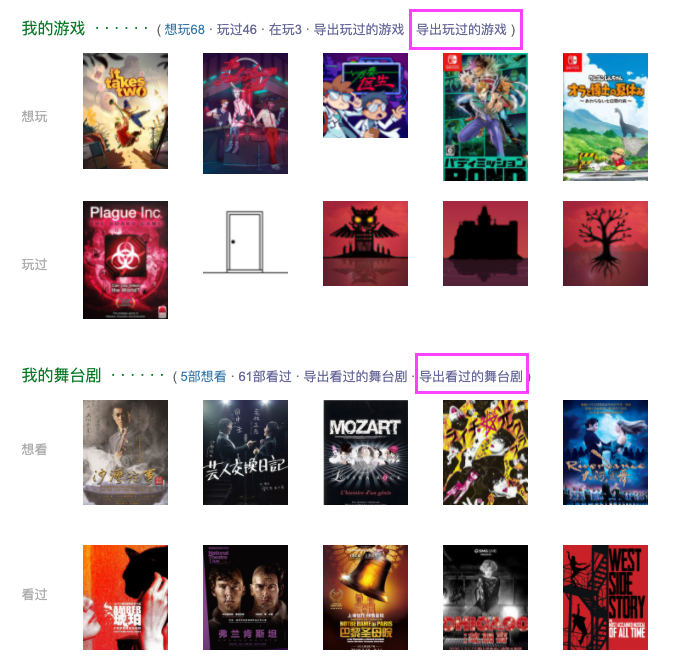
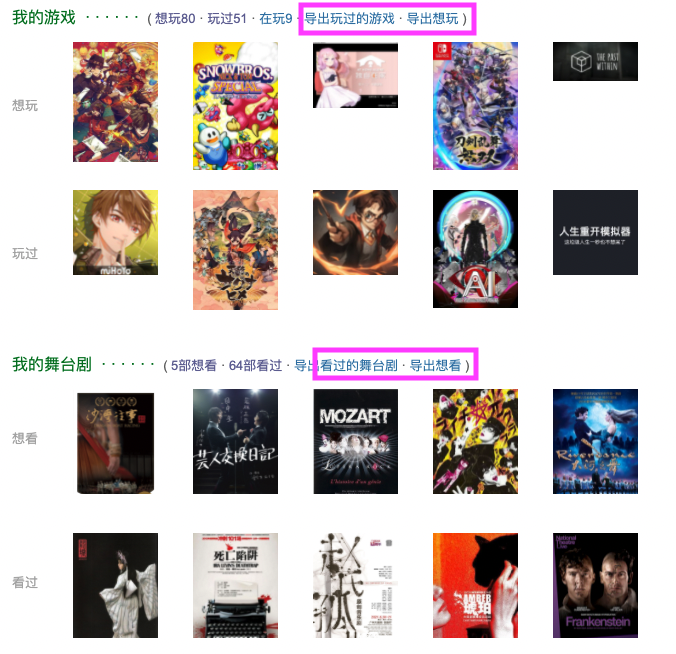
:memo: change: rewrite douban backup manual.

diff --git a/_posts/2021-06-05-douban-backup-sync-notion.md b/_posts/2021-06-05-douban-backup-sync-notion.md
@@ -5,18 +5,22 @@ date: 2021-06-05
 disqus: y
 ---
 
-我个人的豆瓣标记条目导出到 Notion 并同步的一套操作和工具，并不适用于所有人。并且可能还有问题没有发现。
+我个人的豆瓣标记条目导出到 Notion 并同步的一套操作和工具，并不适用于所有人。
+如果想要使用并在使用中有问题欢迎直接联系我。
 
 ## 1. 使用油猴脚本一键导出`看过/读过/听过/玩过`的电影、书、音乐、游戏、舞台剧条目
 
-脚本 -> [豆瓣读书+电影+音乐+游戏+舞台剧导出工具](https://greasyfork.org/en/scripts/420999-%E8%B1%86%E7%93%A3%E8%AF%BB%E4%B9%A6-%E7%94%B5%E5%BD%B1-%E9%9F%B3%E4%B9%90-%E6%B8%B8%E6%88%8F-%E8%88%9E%E5%8F%B0%E5%89%A7%E5%AF%BC%E5%87%BA%E5%B7%A5%E5%85%B7)
+油猴脚本 -> [豆瓣读书+电影+音乐+游戏+舞台剧导出工具](https://greasyfork.org/en/scripts/420999-%E8%B1%86%E7%93%A3%E8%AF%BB%E4%B9%A6-%E7%94%B5%E5%BD%B1-%E9%9F%B3%E4%B9%90-%E6%B8%B8%E6%88%8F-%E8%88%9E%E5%8F%B0%E5%89%A7%E5%AF%BC%E5%87%BA%E5%B7%A5%E5%85%B7)
 
-是我从另外一个友邻的脚本完善修改的，安装后会在自己的豆瓣页面上看到多出五个链接：
+是我从另外一个友邻的脚本完善修改的，安装后会在自己的豆瓣页面上看到多出五个链接，“导出看过的”之类的。
+
+另外应一部分友邻的要求，把“想看”的部分的导出链接也加上了，但是这一部分数据没有后续处理，
+“想看的”列表如何使用，全凭自由发挥了。
 
 ![](/assets/images/douban-backup-monkey-script.png)
 ![](/assets/images/douban-backup-monkey-script-2.png)
 
-分别点击这五个链接就会分别从
+分别点击这五个“导出看过的”链接的话就会分别从
 - `https://movie.douban.com/mine?status=collect`
 - `https://music.douban.com/mine?status=collect`
 - `https://book.douban.com/mine?status=collect`
@@ -25,23 +29,31 @@ disqus: y
 
 这几个地方自动翻页去获取个人标记数据（包括评分、评分时间以及短评）并最终导出 csv 文件。每次都可能需要一点时间给脚本去翻页获取数据，中途不要关掉浏览器，也不要在这个页面上去操作什么。
 
-因为这三个地方不是具体条目页面，所以页面访问 limit request 并不严格，所以这样跑脚本完全不会被当做机器人而遭到封禁 IP 或要求重新登录之类的处理。
+因为这三个地方不是具体条目页面，页面访问 limit request 并不严格，所以这样跑脚本完全不会被当做机器人而遭到封禁 IP 或要求重新登录之类的处理。
+
 但局限也就是这里无法准确获取更多有关条目本身的信息，比如电影条目的 IMDb 链接、制片国家，也无法精准把导演和演员之类的人名区分开。
+
+所以会发现导出的列表和最后实际使用中的 Notion table 的信息有对应不上的或者缺失的。这是正常的，也是无法避免的。
+我个人的 Notion 事例看着数据是完整的，是因为最早尝试过自己写爬虫完整地爬取数据，但是数次遭遇被临时封禁 IP
+并要求重新登录，整个过程很痛苦很麻烦，所以决定放弃爬虫方案了。
+
+如果还是想要更完整的信息，建议使用[豆坟](https://blog.doufen.org/)。我个人也会过一段时间使用这个，因为还可以备份广播、相册等对我来说并不是特别重要的部分。
 
 ## 2. 在 Notion 创建 database 并导入 csv
 
-在 Notion 中新建一个 database，也就是表格。然后给表格设置每一列的 Property 名字和类型，名字需要对应前面导出的 csv 的表头的名字和顺序。
+此处我做了几个方便直接 duplicate 的模版，因为表格每一列的属性等的设置起来还挺多需要注意的地方。
 
-例如我的油猴脚本导出的 csv 是这样的:
+- [movie template](https://bambooo.notion.site/02ab64ae11df4d46b16273a0b9adf6ae?v=7c7788ded74743519612e80f1b2384ff)
+- [book template](https://bambooo.notion.site/2c6d35b0e1414af387f9e2a20d10cb4c?v=33be13cbae1f4bf581d325dfa1fa5604)
+- [music template](https://bambooo.notion.site/43a25b0e62354cc4a38a8aa0c60ac31c?v=45b0b31a85804b42a8993e99b63e3f47)
+- [game template](https://bambooo.notion.site/0fcb63ccfc65455b9349b29685690b71?v=5fc35837865640fe8e008ef80961d87f)
+- [drama templa](https://bambooo.notion.site/29233844d4e34a9eb6fd48fb0a7b1598?v=8e9681e173204853b3df0d8c10f0e549)
 
-| 标题                  | 个人评分 | 打分日期   | 我的短评                                                   | 上映日期   | 制片国家 | 条目链接                                   |
-| --------------------- | -------- | ---------- | ---------------------------------------------------------- | ---------- | -------- | ------------------------------------------ |
-| 音乐 / 音楽           |          | 2021/05/22 |                                                            | 2019/09/26 | 加拿大   | https://movie.douban.com/subject/34429100/ |
-| 王者天下 / キングダム | 2        | 2021/05/19 | 太难看了，真是适合飞机上打发时间，只有麻酱太美太帅了！！！ | 2019/04/19 | 日本     | https://movie.douban.com/subject/27611498/ |
+打开模版后直接点击右上角的 **Duplicate**，即可将模版复制到自己的 workspace 中。
 
-如果不喜欢这个顺序，可以自己用 excel 或 wps 之类的工具打开调整顺序后再重新导出 csv 文件。
+![](/assets/images/douban-backup-duplicate.png)
 
-然后在 Notion 页面都右上角菜单打开后选择 Merge with CSV 并选择这个 csv 文件后稍等片刻即可完成导入。
+然后在新建的 database 页面右上角菜单打开后选择 Merge with CSV，将第一步导出的 csv 文件进行导入，数据量较大的话可能需要一点时间。
 
 ![](/assets/images/douban-backup-notion-merge-csv.png)
 
@@ -49,47 +61,123 @@ disqus: y
 
 ![](/assets/images/douban-backup-notion-db.png)
 
+在 Notion 中新建一个 database，也就是表格。然后给表格设置每一列的 Property 名字和类型，名字需要对应前面导出的 csv 的表头的名字和顺序。
 
-## 3. 使用 GitHub Actions 定时从 RSS 信息将豆瓣标记更新同步到 Notion
+因为我的油猴脚本导出的 csv 是这样的:
 
-虽然尽量把豆瓣标记条目备份导出了，但并没有打算完全不用豆瓣了，毕竟的确没有完美的替代，这里的友邻也都依然是我喜欢和期望看到的。
-所以上面两步其实我 4 个月前就做好了的，但对我来说最大的困扰是如何在上面的操作之后继续同步标记呢？
-每个条目都手动输入的话可太麻烦了，那每次都从豆瓣重新导出 csv 再将新的条目合并进 Notion 操作起来似乎也很麻烦。
+![](/assets/images/douban-backup-csv.png)
 
-> 前两步还是比较傻瓜式操作的，基本上大多数人都可以轻易完成，但这个第三步就比较麻烦了。一定需要的是 GitHub 账号，如果不会折腾，也可以如我上面说的，隔一段时间重新跑一下导出脚本，缺点是得自己手动操作把已导入的部分去掉，然后将包含剩余部分的 csv 文件再次导入到 Notion 中即可。
+表格的栏的顺序在 Merge CSV 之前最好不要编辑移动，导入之后就可以按喜好编辑移动了。
 
-后来我想到的一个方法是通过 RSS，所幸这么多年过去了，google reader 都死掉了，豆瓣的 RSS 依然还保留着。
+
+## 3. 将豆瓣标记更新到 Notion （适合不想折腾的完全的小白）
+
+> 如果愿意折腾的话，可以跳过此项继续看第 4 步。
+
+虽然尽量把豆瓣标记条目备份导出了，但并没有打算完全不用豆瓣了，毕竟的确没有完美的替代，友邻也都依然是我喜欢和期望看到的。
+所以在备份了已有的条目后，依然想使用豆瓣标记，但想同时同步标记到对应 Notion 表格。
+如果每个条目仍需要手动输入的话可太麻烦了，此处我提供两个解决方法。
+
+如果不想折腾不懂的东西的话，最直接的方法是：
+- 过一段时间使用油猴脚本重新导出 csv 表格
+- 用 Excel 类工具编辑表格，删除已经导入的部分
+- 再次使用 Merge with CSV 功能导入 Notion 表格
+
+操作上也不算复杂，如果想要比较傻瓜式的操作的话，使用这样的方法即可。
+
+## 4. 使用 GitHub Actions 定时从 RSS 信息更新 Notion
+
+> 这是我个人使用的更自动化的方法，但是需要折腾一些东西，欢迎试用并反馈，谢谢～
+
+
+所幸这么多年过去了，google reader 都死掉了，豆瓣的 RSS 依然还保留着。
 在个人页面的右下角一直安静地存在着：
 
 ![](/assets/images/douban-rss.png)
 
 以[我的账号的 RSS 信息](https://www.douban.com/feed/people/MoNoMilky/interests)为例，
-这个 feed 里只有书影音的标记信息，并且想看、在看、看过三类状态的信息也都包括。缺点是仅有保留最新的 10 条信息。
+这个 feed 里只有书影音的标记信息，并且想看、在看、看过三类状态的信息也都包括。**缺点是仅有保留最新的 10 条信息。**
 
-所以我个人的方法是定时读取这个 RSS feed，然后从中将新的标记信息自动更新到 Notion 里去，就很方便了。
-这个想法在 4 个月前就基本成型了，但等到 Notion 提供 Public API 之后才终于能够实现了。
+我个人的方法就是定时读取这个 RSS feed，然后从中将新的标记信息自动更新到 Notion 里去，就很方便了。
 
-完成的脚本 -> [sync-rss.js](https://github.com/bambooom/douban-backup/blob/main/sync-rss.js) 就是做了上述事项，其中也顺便针对每个新的条目去条目页面截取了更多我想要保留的信息，因为数量很少所以也不会引发被封锁 IP。（代码写的很 ugly，凑合能用吧😂 ）
+完成的脚本 -> [sync-rss.js](https://github.com/bambooom/douban-backup/blob/main/sync-rss.js) 就是做了上述事项，其中也顺便针对每个新的条目去条目页面截取了更多我想要保留的信息，因为数量很少所以也不会引发被封锁 IP。（代码写得不好看，凑合能用吧😂 ）
 
-想要成功使用这个脚本，需要做几件事：
+想要使用这个脚本，需要做以下几件事。
 
-1. 注册一个 GitHub 账号
-2. fork 我的代码仓库 https://github.com/bambooom/douban-backup （懂的人也可以不 fork）
-3. 按照 [Notion 文档](https://developers.notion.com/docs/getting-started) 注册一个 Integration，叫什么名字随意，获取 Token
-4. 在你前面创建的 database 页面邀请 Integration（把它想成一个 bot），这样你就可以使用 Notion API Token 来访问或者更新 Notion 了。要注意的是每个 database 都需要单独邀请 Integration
-5. 在自己 fork 或创建的代码仓库里设置 secrets，key 的名字如图，NOTION_TOKEN 即第三步获取的 Token，NOTION_BOOK/MOVIE/MUSIC_DATABASE_ID 是你自己的数据库的 ID，在 Notion 网站的 URL 上即可复制 （前面的 Notion 文档中也有提到什么是 database ID）
+### 4.1 获取 GitHub 代码仓库
+
+1. 注册一个 GitHub 账号，如果没有
+2. fork 我的代码仓库 https://github.com/bambooom/douban-backup （懂的人也可以不 fork，直接 clone，再在自己账号里创建新的 repo 并上传）
+
+### 4.2 注册 Notion Integration
+
+按照 [Notion 文档](https://developers.notion.com/docs/getting-started) 注册一个 Integration，叫什么名字随意，获取 Token
+
+![](/assets/images/douban-backup-notion-token.png)
+
+
+### 4.3 给 Notion Integration 权限
+
+在你前面创建的 Notion database 页面右上角点开 Share，然后点开 Invite 那个编辑框，搜索你的 Integration 起的名字，确认 Invite。
+邀请 Integration（把它想成一个 bot），这样你就可以使用 Notion API Token 来访问或者更新 Notion 了。**要注意的是每个 database 都需要单独邀请 Integration。**
+
+![](/assets/images/douban-backup-invite-bot.png)
+
+邀请后再页面上即可看到这个 Integration 是有权限编辑的。
+
+![](/assets/images/douban-backup-bot.png)
+
+### 4.4 在 GitHub 代码仓库中设置 secretes
+
+在自己 fork 或创建的代码仓库里设置 secrets。
 
 ![](/assets/images/douban-backup-secrets.png)
+
+key 的名字如图中绿色框内，请不要更改。另外 `DOUBAN_USER_ID`、`NOTION_TOKEN`（即前面获取的 Integration 的 Token） 是必须的。
+任意一个 databse 的 ID 也是必须的。（不需要所有都有）
+
+![](/assets/images/douban-backup-set-kv.png)
+
+#### `DOUBAN_USER_ID` 是啥
+
+即你的豆瓣的 ID，如图这两个地方均可获取。
+
+![](/assets/images/douban-id.png)
+
+#### database ID 在哪里
+
+Notion 数据库的 ID，在 Notion 网站的 URL 上即可复制。（前面的 Notion 文档中也有提到什么是 database ID，不要把后面的 `?v=xxxxx` 也复制进去。）
 
 ```
 https://www.notion.so/myworkspace/a8aec43384f447ed84390e8e42c2e089?v=...
                                   |--------- Database ID --------|
 ```
 
-    如果是懂自己在干什么的人，想要在自己电脑上跑脚本的话，需要在仓库目录下创建一个叫 `.env` 的文件配置齐下面的 secrets 即可
+## 其他说明
 
-最后这个脚本需要定时跑，也就是一个 cron job 而已，又穷又懒的我，发现了 GitHub 近来在推的自家的 Actions 功能是可以做定时任务的，[参考文档](https://docs.github.com/en/actions/reference/events-that-trigger-workflows#scheduled-events)。
-免费用户的公开仓库似乎也完全不限制 Actions 的使用（Private repo 是有限制使用分钟数的），所以我在仓库里添加了这个 [workflow 设置文件](https://github.com/bambooom/douban-backup/blob/main/.github/workflows/sync-rss.js.yml)。
+### 本地测试运行
+
+如果是懂自己在干什么的人，想要在自己电脑上跑脚本的话，需要在仓库目录下创建一个叫 `.env` 的文件配置齐下面的 secrets 即可。
+### GitHub Actions 配置
+
+这个脚本需要定时跑，也就是一个 cron job 而已，实现这个是靠 GitHub Actions 功能，[参考文档](https://docs.github.com/en/actions/reference/events-that-trigger-workflows#scheduled-events)。
+GitHub 对免费用户的公开仓库暂时完全不会限制 Actions 的使用（Private repo 是有限制使用分钟数的），所以我在仓库里添加了这个 [workflow 设置文件](https://github.com/bambooom/douban-backup/blob/main/.github/workflows/sync-rss.js.yml)。
+
+如果想要其他的配置，可以自行研究 GitHub Actions 的文档进行调整。
+
+### 更改脚本运行频率
+
 我设置的是每 6 个小时跑一次，因为我的标记也没有那么频繁，应该是够用了的。
 
-最终 -> [我的 Notion 书影音 database](https://www.notion.so/f6ff9481e3c044b09d9a46645e92d5b8)
+如果想要更改这个频率，可以自行编辑这个 [workflow 文件](https://github.com/bambooom/douban-backup/blob/main/.github/workflows/sync-rss.js.yml)，将 6 改为 1 即表示每隔 1 个小时就运行一次脚本，改为 2 就表示每隔 2 个小时运行一次。
+
+![](/assets/images/douban-backup-interval.png)
+
+### 手动运行 workflow
+
+另外我配置的 workflow 支持手动运行脚本，方便测试或者在偶尔标记较多时候可以及时手动同步。
+
+![](/assets/images/douban-backup-manual.png)
+
+
+最终贴上[我的 Notion 书影音 database](https://bambooo.notion.site/f6ff9481e3c044b09d9a46645e92d5b8) 当作例子。
